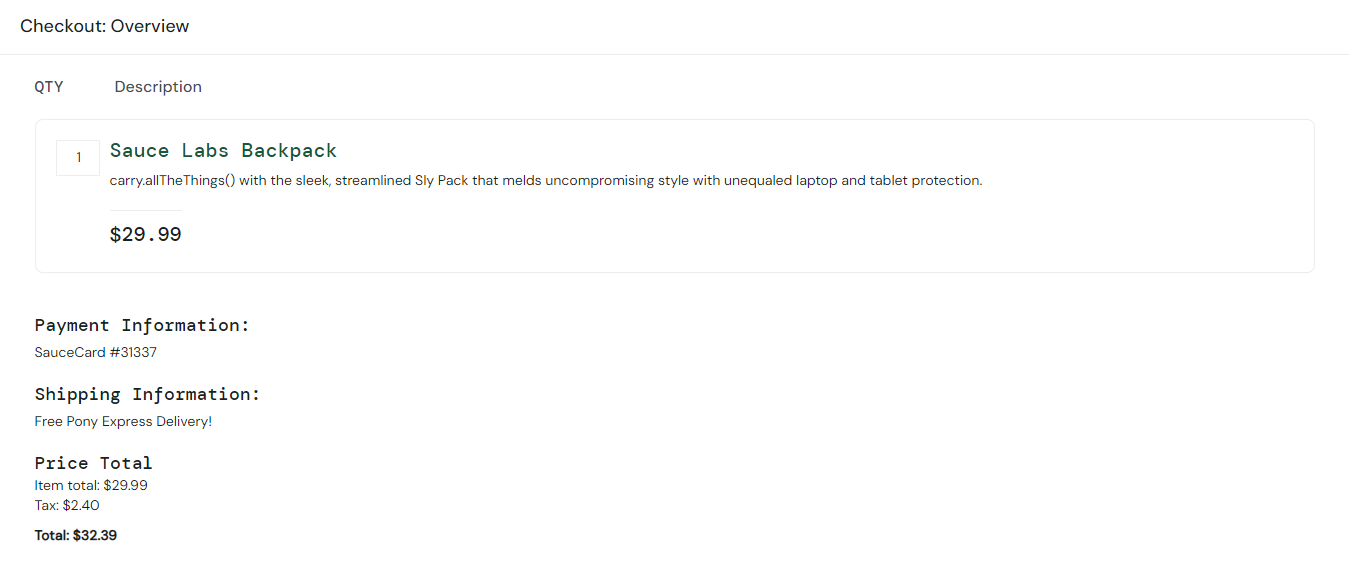
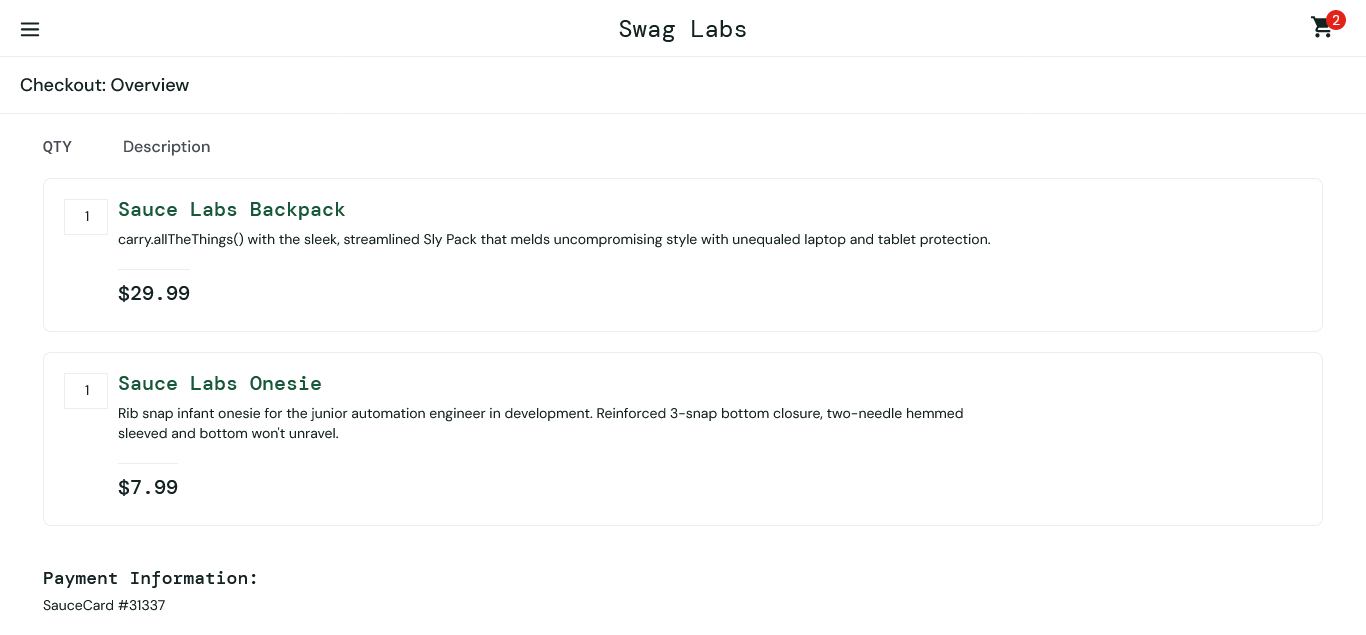
Second Code coming

diff --git a/src/main/java/Reporting/reports.html b/src/main/java/Reporting/reports.html
@@ -35,7 +35,7 @@
 <a href="#"><span class="badge badge-primary"></span></a>
 </li>
 <li class="m-r-10">
-<a href="#"><span class="badge badge-primary">Jul 1, 2024 11:08:24 am</span></a>
+<a href="#"><span class="badge badge-primary">Jul 1, 2024 01:42:42 pm</span></a>
 </li>
 </ul>
 </div>
@@ -67,6 +67,7 @@
 <a href="#" class="dropdown-toggle" data-toggle="dropdown"><i class="fa fa-exclamation-circle"></i></a>
 <ul id="status-toggle" class="dropdown-menu dropdown-md p-v-0">
 <a class="dropdown-item" status="pass" href="#"><span>Pass</span><span class="status success"></span></a>
+<a class="dropdown-item" status="fail" href="#"><span>Fail</span><span class="status danger"></span></a>
 <div class="dropdown-divider"></div>
 <a status="clear" class="dropdown-item" href="#"><span>Clear</span><span class="pull-right"><i class="fa fa-close"></i></span></a>
 </ul>
@@ -74,42 +75,56 @@
 </ul>
 </div>    <div class="test-list-wrapper scrollable">
       <ul class="test-list-item">
-        <li class="test-item"  status="pass" test-id="1"
+        <li class="test-item"  status="fail" test-id="2"
           author=""
           tag=""
           device="">
           <div class="test-detail">
             <p class="name">Test login</p>
             <p class="text-sm">
-              <span>11:08:27</span> / <span>00:00:00:000</span>
-              <span class="badge pass-bg log float-right">Pass</span>
+              <span>13:42:48</span> / <span>00:00:02:485</span>
+              <span class="badge fail-bg log float-right">Fail</span>
             </p>
           </div>
           <div class="test-contents d-none">
 <div class="detail-head">
 <div class="p-v-10">
 <div class="info">
-<h5 class="test-status text-pass">Test login</h5>
-<span class='badge badge-success'>07.01.2024 11:08:27</span>
-<span class='badge badge-danger'>07.01.2024 11:08:27</span>
-<span class='badge badge-default'>00:00:00:000</span>
-&middot; <span class='uri-anchor badge badge-default'>#test-id=1</span>
+<h5 class="test-status text-fail">Test login</h5>
+<span class='badge badge-success'>07.01.2024 13:42:48</span>
+<span class='badge badge-danger'>07.01.2024 13:42:51</span>
+<span class='badge badge-default'>00:00:02:485</span>
+&middot; <span class='uri-anchor badge badge-default'>#test-id=2</span>
 <span title='Skip to the next failed step' class='badge badge-danger pointer float-right ne ml-1'><i class="fa fa-fast-forward"></i></span>
 <span title='Collapse all nodes' class='badge badge-default pointer float-right ct ml-1'><i class="fa fa-compress"></i></span>
 <span title='Expand all nodes' class='badge badge-default pointer float-right et'><i class="fa fa-expand"></i></span>
 </div>
 <div class="m-t-10 m-l-5">Try to logIn with Invalid Logins</div>
 </div>
-</div>          </div>
+</div><div class="detail-body mt-4">
+<table class="table table-sm">
+  <thead><tr><th class="status-col">Status</th><th class="timestamp-col">Timestamp</th><th class="details-col">Details</th></tr></thead>
+  <tbody>
+      <tr class="event-row">
+        <td><span class="badge log fail-bg">Fail</span></td>
+        <td>13:42:51</td>
+        <td>
+          Failed to login
+        </td>
+      </tr>
+  </tbody>
+</table>
+</div>
+          </div>
         </li>
-        <li class="test-item"  status="pass" test-id="2"
+        <li class="test-item"  status="pass" test-id="4"
           author=""
           tag=""
           device="">
           <div class="test-detail">
             <p class="name">Testing Login</p>
             <p class="text-sm">
-              <span>11:08:32</span> / <span>00:00:00:119</span>
+              <span>13:42:55</span> / <span>00:00:47:225</span>
               <span class="badge pass-bg log float-right">Pass</span>
             </p>
           </div>
@@ -118,10 +133,10 @@
 <div class="p-v-10">
 <div class="info">
 <h5 class="test-status text-pass">Testing Login</h5>
-<span class='badge badge-success'>07.01.2024 11:08:32</span>
-<span class='badge badge-danger'>07.01.2024 11:08:32</span>
-<span class='badge badge-default'>00:00:00:119</span>
-&middot; <span class='uri-anchor badge badge-default'>#test-id=2</span>
+<span class='badge badge-success'>07.01.2024 13:42:55</span>
+<span class='badge badge-danger'>07.01.2024 13:43:43</span>
+<span class='badge badge-default'>00:00:47:225</span>
+&middot; <span class='uri-anchor badge badge-default'>#test-id=4</span>
 <span title='Skip to the next failed step' class='badge badge-danger pointer float-right ne ml-1'><i class="fa fa-fast-forward"></i></span>
 <span title='Collapse all nodes' class='badge badge-default pointer float-right ct ml-1'><i class="fa fa-compress"></i></span>
 <span title='Expand all nodes' class='badge badge-default pointer float-right et'><i class="fa fa-expand"></i></span>
@@ -134,9 +149,44 @@
   <tbody>
       <tr class="event-row">
         <td><span class="badge log pass-bg">Pass</span></td>
-        <td>11:08:32</td>
+        <td>13:42:56</td>
         <td>
           it is on the home page
+        </td>
+      </tr>
+      <tr class="event-row">
+        <td><span class="badge log pass-bg">Pass</span></td>
+        <td>13:43:04</td>
+        <td>
+          it is on the Product page
+        </td>
+      </tr>
+      <tr class="event-row">
+        <td><span class="badge log pass-bg">Pass</span></td>
+        <td>13:43:24</td>
+        <td>
+          it is on the Cart page
+        </td>
+      </tr>
+      <tr class="event-row">
+        <td><span class="badge log pass-bg">Pass</span></td>
+        <td>13:43:28</td>
+        <td>
+          it is on the Checkout page
+        </td>
+      </tr>
+      <tr class="event-row">
+        <td><span class="badge log pass-bg">Pass</span></td>
+        <td>13:43:38</td>
+        <td>
+          it is on the Overview page
+        </td>
+      </tr>
+      <tr class="event-row">
+        <td><span class="badge log pass-bg">Pass</span></td>
+        <td>13:43:43</td>
+        <td>
+          Order has been confirmed
         </td>
       </tr>
   </tbody>
@@ -158,25 +208,25 @@
 <div class="col-md-3">
 <div class="card"><div class="card-body">
 <p class="m-b-0">Started</p>
-<h3>Jul 1, 2024 11:08:24 am</h3>
+<h3>Jul 1, 2024 01:42:42 pm</h3>
 </div></div>
 </div>
 <div class="col-md-3">
 <div class="card"><div class="card-body">
 <p class="m-b-0">Ended</p>
-<h3>Jul 1, 2024 11:08:38 am</h3>
+<h3>Jul 1, 2024 01:43:43 pm</h3>
 </div></div>
 </div>
 <div class="col-md-3">
 <div class="card"><div class="card-body">
 <p class="m-b-0 text-pass">Tests Passed</p>
-<h3>2</h3>
+<h3>1</h3>
 </div></div>
 </div>
 <div class="col-md-3">
 <div class="card"><div class="card-body">
 <p class="m-b-0 text-fail">Tests Failed</p>
-<h3>0</h3>
+<h3>1</h3>
 </div></div>
 </div>
 </div>
@@ -192,12 +242,12 @@
 </div>
 </div>
 <div class="card-footer">
-<div><small data-tooltip='100%'>
-<b>2</b> tests passed
+<div><small data-tooltip='50%'>
+<b>1</b> tests passed
 </small>
 </div>
 <div>
-<small data-tooltip='0%'><b>0</b> tests failed,
+<small data-tooltip='50%'><b>1</b> tests failed,
 <b>0</b> skipped, <b data-tooltip='0%'>0</b> others
 </small>
 </div>
@@ -215,9 +265,9 @@
 </div>
 </div>
 <div class="card-footer">
-<div><small data-tooltip='100%'><b>1</b> events passed</small></div>
+<div><small data-tooltip='85%'><b>6</b> events passed</small></div>
 <div>
-<small data-tooltip='0%'><b>0</b> events failed,
+<small data-tooltip='14%'><b>1</b> events failed,
 <b data-tooltip='%'>0</b> others
 </small>
 </div>
@@ -234,7 +284,7 @@
 </div></div>
 <script>
 var timeline = {
-"Test login":0,"Testing Login":0.119
+"Test login":2.485,"Testing Login":47.225
 };
 </script>
 <div class="row">
@@ -243,8 +293,8 @@ var timeline = {
 <script>
 var statusGroup = {
 parentCount: 5,
-passParent: 2,
-failParent: 0,
+passParent: 1,
+failParent: 1,
 warningParent: 0,
 skipParent: 0,
 childCount: 5,
@@ -260,8 +310,8 @@ warningGrandChild: 0,
 skipGrandChild: 0,
 infoGrandChild: 0,
 eventsCount: 5,
-passEvents: 1,
-failEvents: 0,
+passEvents: 6,
+failEvents: 1,
 warningEvents: 0,
 skipEvents: 0,
 infoEvents: 0

diff --git a/src/test/java/test.java b/src/test/java/test.java
@@ -47,20 +47,6 @@ public class test {
     }
 
 
-    public void screenshot () throws IOException {
-        WebElement HD = driver.findElement(By.xpath("//*[@id=\"root\"]"));
-        File source = HD.getScreenshotAs(OutputType.FILE);
-        File DS = new File("src/main/java/utilitis/HomePage.png");
-        FileHelper.copyFile(source,DS);
-
-    }
-
-  /*  public void testTheSway(){
-        WebElement SwayName = driver.findElement(By.className("form_group"));
-        WebElement credit = driver.findElement(RelativeLocator.with(By.className("login_logo")).above(SwayName));
-        System.out.println(credit.getText());
-
-    }*/
   @Test(priority = 1)
   public void LoginInvalid () throws InterruptedException, IOException {
       test = reports.createTest("Test login","Try to logIn with Invalid Logins");
@@ -77,14 +63,15 @@ public class test {
   }
 @Test(priority = 2)
     public void LogIn () throws InterruptedException, IOException {
-        //ClassLoader classLoader = test.class.getClassLoader();
-        //URl resource = classLoader.getResource("BooK1(1).xlsx");
-     //   assert resource !=null;
+
         test = reports.createTest("Testing Login", "Trying to login with valid details");
         WebElement SwayName = driver.findElement(By.className("form_group"));
         WebElement credit = driver.findElement(RelativeLocator.with(By.className("login_logo")).above(SwayName));
         System.out.println(credit.getText());
-
+        WebElement HhD = driver.findElement(By.xpath("//*[@id=\"root\"]"));
+       File sourceH = HhD.getScreenshotAs(OutputType.FILE);
+       File DSh = new File("src/main/java/utilitis/HomePage.png");
+       FileHelper.copyFile(sourceH,DSh);
        String Webname = "Swag Labs";
              if(Webname.matches(credit.getText())) {
               test.log(Status.PASS, "it is on the home page");
@@ -92,10 +79,13 @@ public class test {
           test.log(Status.FAIL, "it failed to locate the home page");
 }
              Login LG = new Login(driver);
+            Thread.sleep(2000);
              LG.UserName();
+             Thread.sleep(2000);
              LG.Pasword();
+             Thread.sleep(2000);
              LG.LoginB();
-             Thread.sleep(5000);
+             Thread.sleep(2000);
         WebElement PrD = driver.findElement(By.xpath("//*[@id=\"root\"]"));
         File PdSC = PrD.getScreenshotAs(OutputType.FILE);
         File pDS = new File("src/main/java/utilitis/ProductPage.png");
@@ -107,9 +97,22 @@ public class test {
                  test.log(Status.FAIL,"it is not in the Product page");
              }
           Products PD = new Products(driver);
+             Thread.sleep(2000);
           PD.clickOnProducts();
+          Thread.sleep(2000);
            PD.clickTheCart();
+           Thread.sleep(2000);
              LG.BarM();
+             Thread.sleep(2000);
+            LG.UserName();
+            Thread.sleep(2000);
+            LG.Pasword();
+            Thread.sleep(2000);
+            LG.LoginB();
+            Thread.sleep(2000);
+             PD.clickOnAnotherProducts();
+             Thread.sleep(2000);
+             PD.clickTheCart();
              Thread.sleep(2000);
              WebElement CH  = driver.findElement(By.xpath("//*[@id=\"root\"]"));
                File chD = CH.getScreenshotAs(OutputType.FILE);
@@ -122,8 +125,9 @@ public class test {
                   test.log(Status.FAIL,"it failed to check out in cart");
               }
            Cart Ct = new Cart(driver);
+              Thread.sleep(2000);
            Ct.check();
-           Thread.sleep(200);
+           Thread.sleep(2000);
         WebElement SD = driver.findElement(By.xpath("//*[@id=\"root\"]"));
         File cD = SD.getScreenshotAs(OutputType.FILE);
         File DC = new File("src/main/java/utilitis/CheckOutPage.png");
@@ -135,9 +139,13 @@ public class test {
             test.log(Status.FAIL,"it failed to check out in cart");
         }
         CheckOut ck = new CheckOut(driver);
+        Thread.sleep(2000);
         ck.fName();
+        Thread.sleep(2000);
         ck.lName();
+        Thread.sleep(2000);
         ck.Code();
+        Thread.sleep(2000);
         ck.BtnCon();
         Thread.sleep(2000);
         WebElement Sp = driver.findElement(By.xpath("//*[@id=\"root\"]"));
@@ -151,9 +159,10 @@ public class test {
     }
 
        Confirmation cn = new Confirmation(driver);
+        Thread.sleep(2000);
         cn.confB();
         Thread.sleep(2000);
-        test.log(Status.FAIL,"Order has been confirmed");
+        test.log(Status.PASS,"Order has been confirmed");
     WebElement Spt = driver.findElement(By.xpath("//*[@id=\"root\"]"));
     File cDt = Sp.getScreenshotAs(OutputType.FILE);
     File DCpt = new File("src/main/java/utilitis/ConfirmationPage.png");
@@ -167,7 +176,7 @@ public class test {
     public void tearDwn(){
 
         reports.flush();
-        reports.getReport();
+
         driver.quit();
     }
 }

diff --git a/src/main/java/Application/Products.java b/src/main/java/Application/Products.java
@@ -19,4 +19,9 @@ public void clickTheCart(){
 
     driver.findElement(By.xpath("//*[@id=\"shopping_cart_container\"]/a")).click();
 }
+    public void clickOnAnotherProducts()
+    {
+        driver.findElement(By.xpath("//*[@id=\"add-to-cart-sauce-labs-onesie\"]")).click();
+
+    }
 }
